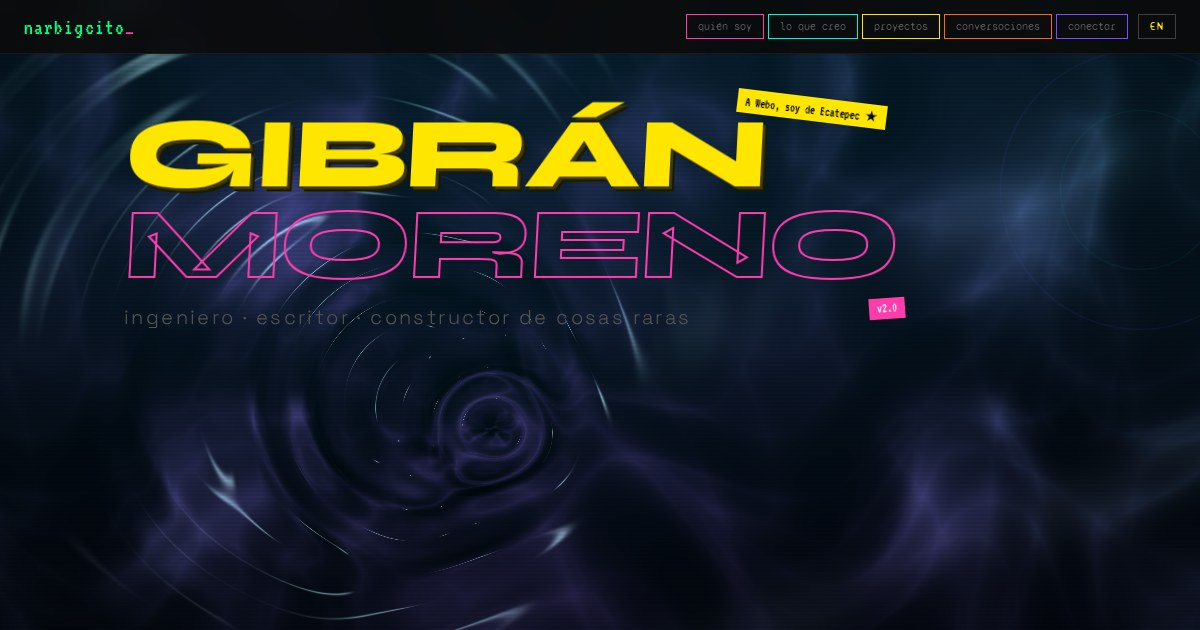
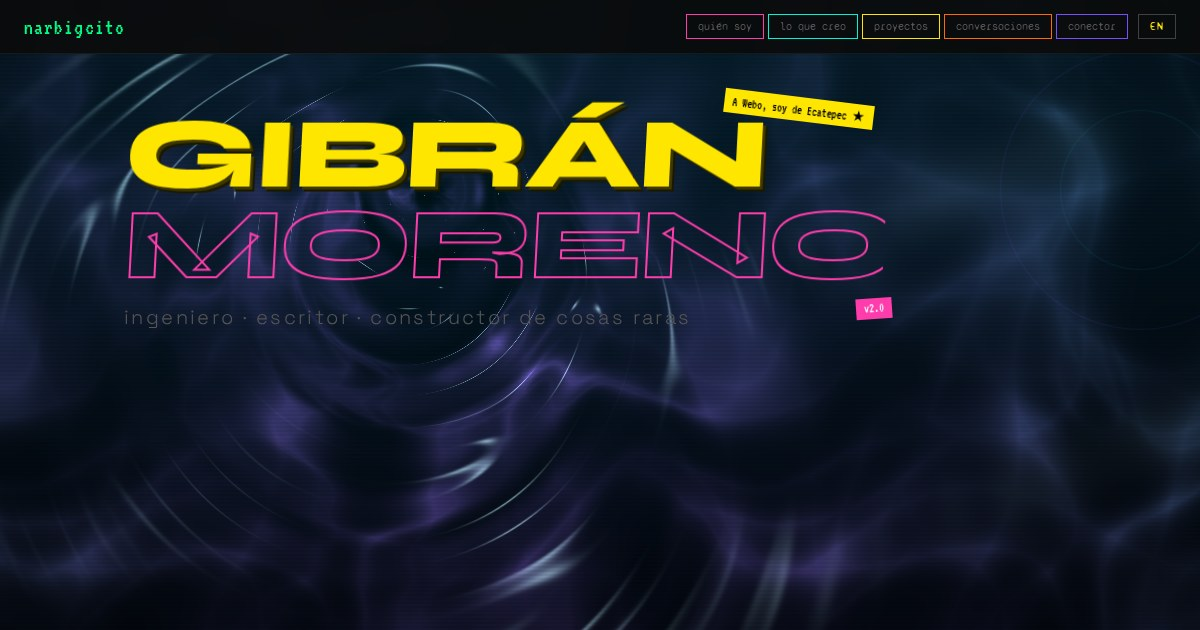
hero: quitar caja de estado y botones ver proyectos/colaborar

diff --git a/assets/js/i18n.js b/assets/js/i18n.js
@@ -15,9 +15,6 @@ const TRANSLATIONS = {
     nav_conectar: 'conectar',
     hero_subtitle: 'ingeniero · escritor · constructor de cosas raras',
     hero_bio: 'No tengo todo resuelto.<br>Pero <strong>estoy haciendo cosas concretas</strong> para cambiar cómo nos relacionamos, cómo pensamos y cómo nos organizamos.<br><br>Busco <em>cómplices</em>: artistas, ingenieros, académicos o quien sea que crea que el mundo puede ser distinto y tenga ganas de hacer algo al respecto.',
-    status_body: '<span class="ok">✓</span> Orden — live en producción<br><span class="warn">◎</span> MAGI — en construcción<br><span class="warn">◎</span> Laboratorio HOMOS — pausado<br><span class="ok">✓</span> La sombra de la rana — saliendo del horno',
-    btn_projects: 'ver proyectos',
-    btn_collaborate: 'colaborar →',
     quien_label: '// QUIÉN SOY',
     wall_text: 'si quieres saber quién soy,<br>rompe este muro.<br><span style="font-size:0.65em;opacity:0.5">(golpéalo 17 veces)</span>',
     wall_reopen: '↩ volver a romper el muro',
@@ -120,9 +117,6 @@ const TRANSLATIONS = {
     nav_conectar: 'connect',
     hero_subtitle: 'engineer · writer · builder of weird things',
     hero_bio: 'I don\'t have everything figured out.<br>But <strong>I\'m doing concrete things</strong> to change how we relate, how we think, and how we organize.<br><br>I\'m looking for <em>accomplices</em>: artists, engineers, academics, or anyone who thinks the world could be different and wants to do something about it.',
-    status_body: '<span class="ok">✓</span> Orden — live in production<br><span class="warn">◎</span> MAGI — under construction<br><span class="warn">◎</span> HOMOS Lab — paused<br><span class="ok">✓</span> La sombra de la rana — coming out of the oven',
-    btn_projects: 'see projects',
-    btn_collaborate: 'collaborate →',
     quien_label: '// WHO I AM',
     wall_text: 'if you want to know who i am,<br>break this wall.<br><span style="font-size:0.65em;opacity:0.5">(hit it 17 times)</span>',
     wall_reopen: '↩ break the wall again',

diff --git a/index.html b/index.html
@@ -157,20 +157,6 @@
         </div>
         <p class="hero-bio" data-i18n-html="hero_bio">No tengo todo resuelto.<br>Pero <strong>estoy haciendo cosas concretas</strong> para cambiar cómo nos relacionamos, cómo pensamos y cómo nos organizamos.<br><br>Busco <em>cómplices</em>: artistas, ingenieros, académicos o quien sea que crea que el mundo puede ser distinto y tenga ganas de hacer algo al respecto.</p>
       </div>
-      <div class="hero-right">
-        <div class="status-box">
-          <div class="status-body" data-i18n-html="status_body">
-            <span class="ok">✓</span> Orden — live en producción<br>
-            <span class="warn">◎</span> MAGI — en construcción<br>
-            <span class="warn">◎</span> Laboratorio HOMOS — pausado<br>
-            <span class="ok">✓</span> La sombra de la rana — saliendo del horno
-          </div>
-        </div>
-        <div class="hero-btns">
-          <a class="btn btn-main" href="#apps" data-i18n="btn_projects">ver proyectos</a>
-          <a class="btn btn-ghost" href="#conectar" data-i18n="btn_collaborate">colaborar →</a>
-        </div>
-      </div>
     </div>
   </div>
   <div class="geo geo-c1"></div>

diff --git a/assets/css/sitio.css b/assets/css/sitio.css
@@ -97,7 +97,7 @@ nav {
 
 
 #hero { min-height: 100vh; display: flex; align-items: center; padding-top: 80px; position: relative; z-index: 2; overflow: hidden; }
-.hero-grid { display: grid; grid-template-columns: 1fr 1fr; gap: 48px; align-items: center; }
+.hero-grid { display: grid; grid-template-columns: minmax(0, 760px); gap: 48px; align-items: center; }
 @media (max-width: 700px) { .hero-grid { grid-template-columns: 1fr; } }
 
 .wordart { font-family: 'Syne', sans-serif; font-weight: 800; font-size: clamp(52px, 9vw, 100px); line-height: 0.88; letter-spacing: -0.03em; text-transform: uppercase; }
